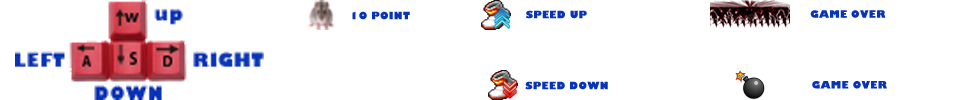
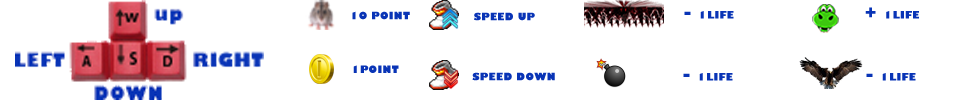
updated snake graphic and snake dead graphic

diff --git a/Scripts/scenes/play.ts b/Scripts/scenes/play.ts
@@ -11,6 +11,7 @@ module scenes {
         private completeLabel: objects.Label;
         private snakeHead:objects.SnakeHead;
         private snakeList:objects.SnakeBody[]=new Array();
+        private snakeDead:objects.SnakeHead;
         private score:number=0;
         private currentLives:number;
         private coins:objects.Coin[]=new Array();
@@ -65,9 +66,11 @@ module scenes {
             this.snakeHead=new objects.SnakeHead(this.assetManager,"snakeHead");
             this.snakeList[0]=new objects.SnakeBody(this.assetManager,"snakeBody");
             this.mouse=new objects.Mouse(this.assetManager);
+            this.snakeDead=new objects.SnakeHead(this.assetManager,"snakeDead");
             for (let i=0; i<this.bombNo; i++) {
                 this.bomb[i] = new objects.Bomb(this.assetManager);
             }
+
             this.eagle = new objects.Eagle(this.assetManager);
             this.explosion = new objects.Explosion(this.assetManager);
             this.eaglecatch = new objects.Catch(this.assetManager);
@@ -300,8 +303,13 @@ module scenes {
             }
             if(selfCollision){
                 console.log("Self collided");
+                this.snakeDead.x=this.snakeHead.x;
+                this.snakeDead.y=this.snakeHead.y;
+                this.snakeDead.rotation=this.snakeHead.rotation;
                 this.snakeHead.stopTimer();
+                this.addChild(this.snakeDead);
                 setTimeout(()=>{
+                    this.removeChild(this.snakeDead);
                     this.processHit();
                 }, 2000);
                 console.log(this.currentLives);
@@ -319,9 +327,15 @@ module scenes {
             }
             if(collision){
                 createjs.Sound.play("SnakeHitWall");
+                this.snakeDead.x=this.snakeHead.x;
+                this.snakeDead.y=this.snakeHead.y;
+                this.snakeDead.rotation=this.snakeHead.rotation;
                 this.snakeHead.Reset();
+                this.addChild(this.snakeDead);
                 setTimeout(()=>{
+                    this.removeChild(this.snakeDead);
                     this.processHit();
+
                 },2000);
             }
         }

diff --git a/Scripts/scenes/play.js b/Scripts/scenes/play.js
@@ -48,6 +48,7 @@ var scenes;
             this.snakeHead = new objects.SnakeHead(this.assetManager, "snakeHead");
             this.snakeList[0] = new objects.SnakeBody(this.assetManager, "snakeBody");
             this.mouse = new objects.Mouse(this.assetManager);
+            this.snakeDead = new objects.SnakeHead(this.assetManager, "snakeDead");
             for (var i = 0; i < this.bombNo; i++) {
                 this.bomb[i] = new objects.Bomb(this.assetManager);
             }
@@ -265,8 +266,13 @@ var scenes;
             }
             if (selfCollision) {
                 console.log("Self collided");
+                this.snakeDead.x = this.snakeHead.x;
+                this.snakeDead.y = this.snakeHead.y;
+                this.snakeDead.rotation = this.snakeHead.rotation;
                 this.snakeHead.stopTimer();
+                this.addChild(this.snakeDead);
                 setTimeout(function () {
+                    _this.removeChild(_this.snakeDead);
                     _this.processHit();
                 }, 2000);
                 console.log(this.currentLives);
@@ -284,8 +290,13 @@ var scenes;
             }
             if (collision) {
                 createjs.Sound.play("SnakeHitWall");
+                this.snakeDead.x = this.snakeHead.x;
+                this.snakeDead.y = this.snakeHead.y;
+                this.snakeDead.rotation = this.snakeHead.rotation;
                 this.snakeHead.Reset();
+                this.addChild(this.snakeDead);
                 setTimeout(function () {
+                    _this.removeChild(_this.snakeDead);
                     _this.processHit();
                 }, 2000);
             }

diff --git a/Scripts/objects/snakeHead.ts b/Scripts/objects/snakeHead.ts
@@ -13,7 +13,14 @@ module objects {
         private nextCoords:Array<number>;
         private timer;
         public timeToUpdateBodies:boolean = false;
+        public imageString:string;
 
+        public setImage(newImage:string):void{
+            this.imageString=newImage;
+        }
+        public getImage():string{
+            return this.imageString;
+        }
         // Constructor
         constructor(assetManager:createjs.LoadQueue, imageString:string) {
             super(assetManager, imageString);         

diff --git a/Scripts/objects/snakeHead.js b/Scripts/objects/snakeHead.js
@@ -28,6 +28,12 @@ var objects;
             _this.Start();
             return _this;
         }
+        SnakeHead.prototype.setImage = function (newImage) {
+            this.imageString = newImage;
+        };
+        SnakeHead.prototype.getImage = function () {
+            return this.imageString;
+        };
         SnakeHead.prototype.Start = function () {
         };
         SnakeHead.prototype.Update = function () {

diff --git a/Scripts/core/game.js b/Scripts/core/game.js
@@ -29,6 +29,7 @@
         { id: "replayButton", src: "./Assets/TryAgainBtn.png" },
         { id: "eagle", src: "./Assets/eagle.png" },
         { id: "eaglecatchsnake", src: "./Assets/eaglecatchsnake.png" },
+        { id: "snakeDead", src: "./Assets/snakeDead.png" }
     ];
     function Init() {
         console.log("Initializing Start");

diff --git a/Scripts/core/game.ts b/Scripts/core/game.ts
@@ -34,6 +34,7 @@
         {id:"replayButton",src:"./Assets/TryAgainBtn.png"},
         {id:"eagle",src:"./Assets/eagle.png"},
         {id:"eaglecatchsnake",src:"./Assets/eaglecatchsnake.png"},
+        {id:"snakeDead",src:"./Assets/snakeDead.png"}
     ];
     
 
